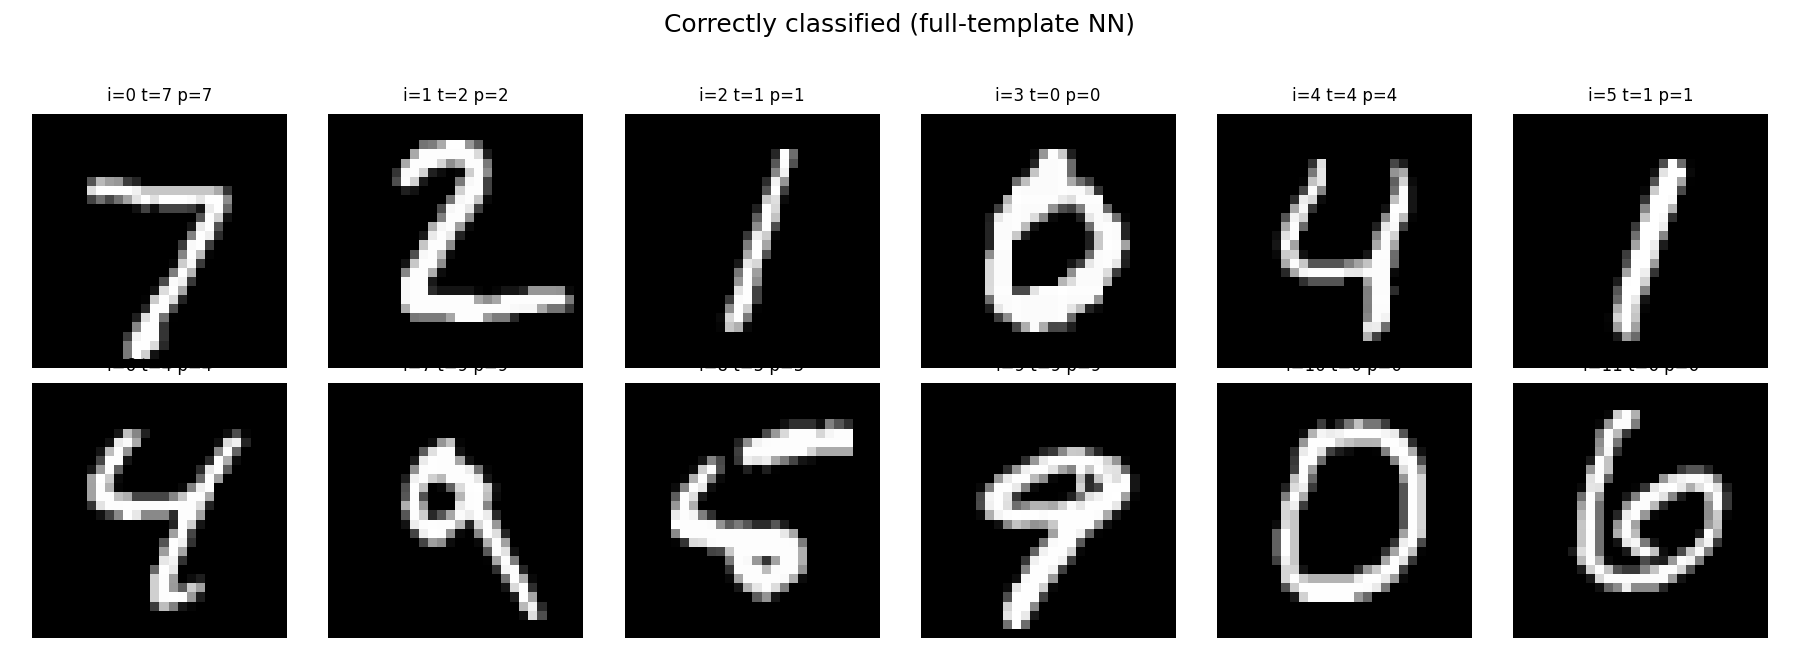
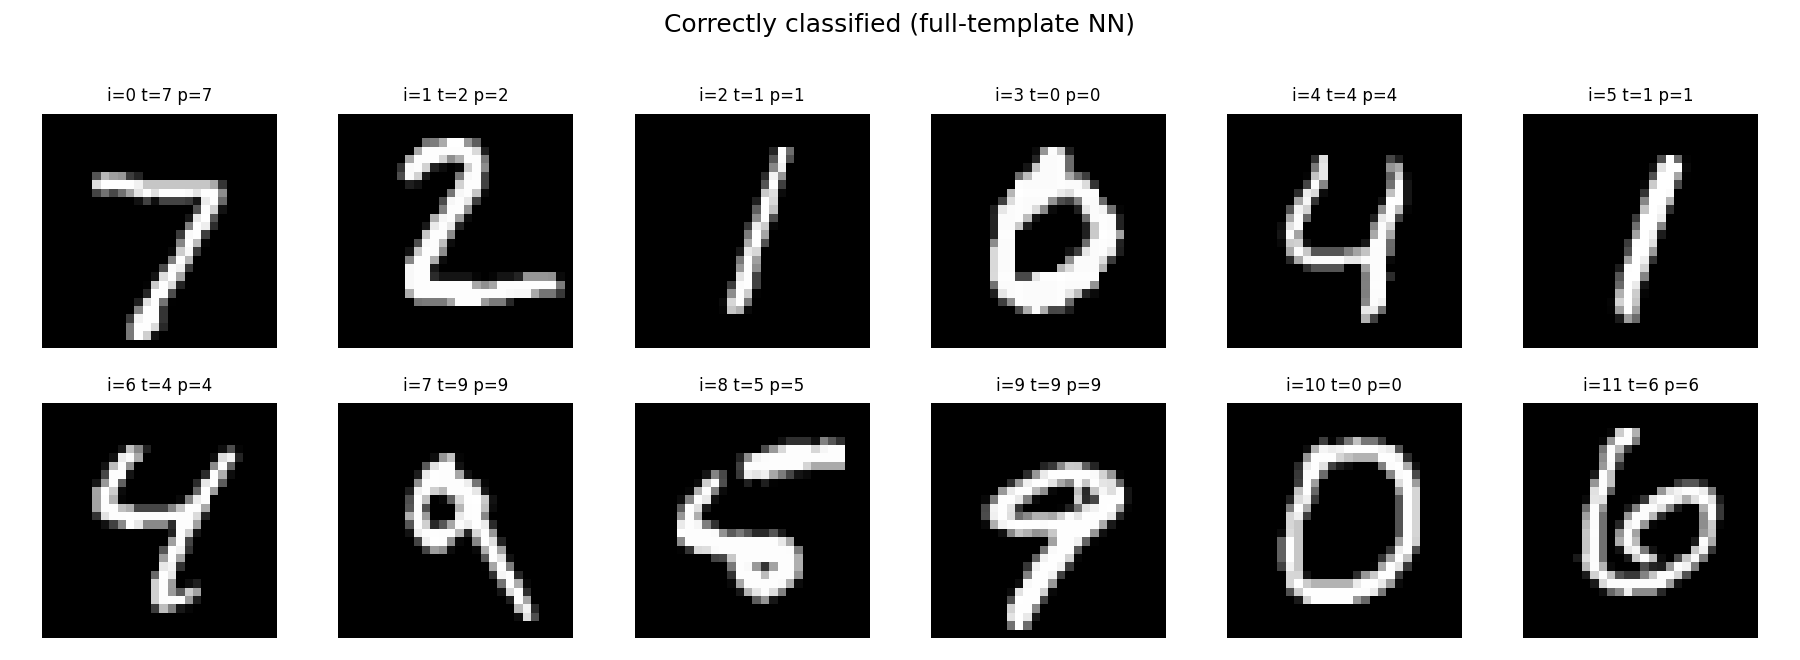
la til en liten endring for å fikse avstand i figur 6 og 7

Changed region(s): [[0.0, 0.1818, 0.9956, 0.9697]]

diff --git a/mnist.py b/mnist.py
@@ -152,7 +152,7 @@ def plot_examples(vectors, true_labels, pred_labels, indices, path, title, max_i
 		ax.set_title(f"i={idx} t={true_labels[idx]} p={pred_labels[idx]}", fontsize=8)
 		ax.axis("off")
 	fig.suptitle(title)
-	fig.tight_layout(rect=(0, 0, 1, 0.95))
+	fig.tight_layout(rect=(0, 0, 1, 0.95), h_pad=3.0)
 	fig.savefig(path, dpi=150)
 	plt.close(fig)
 
